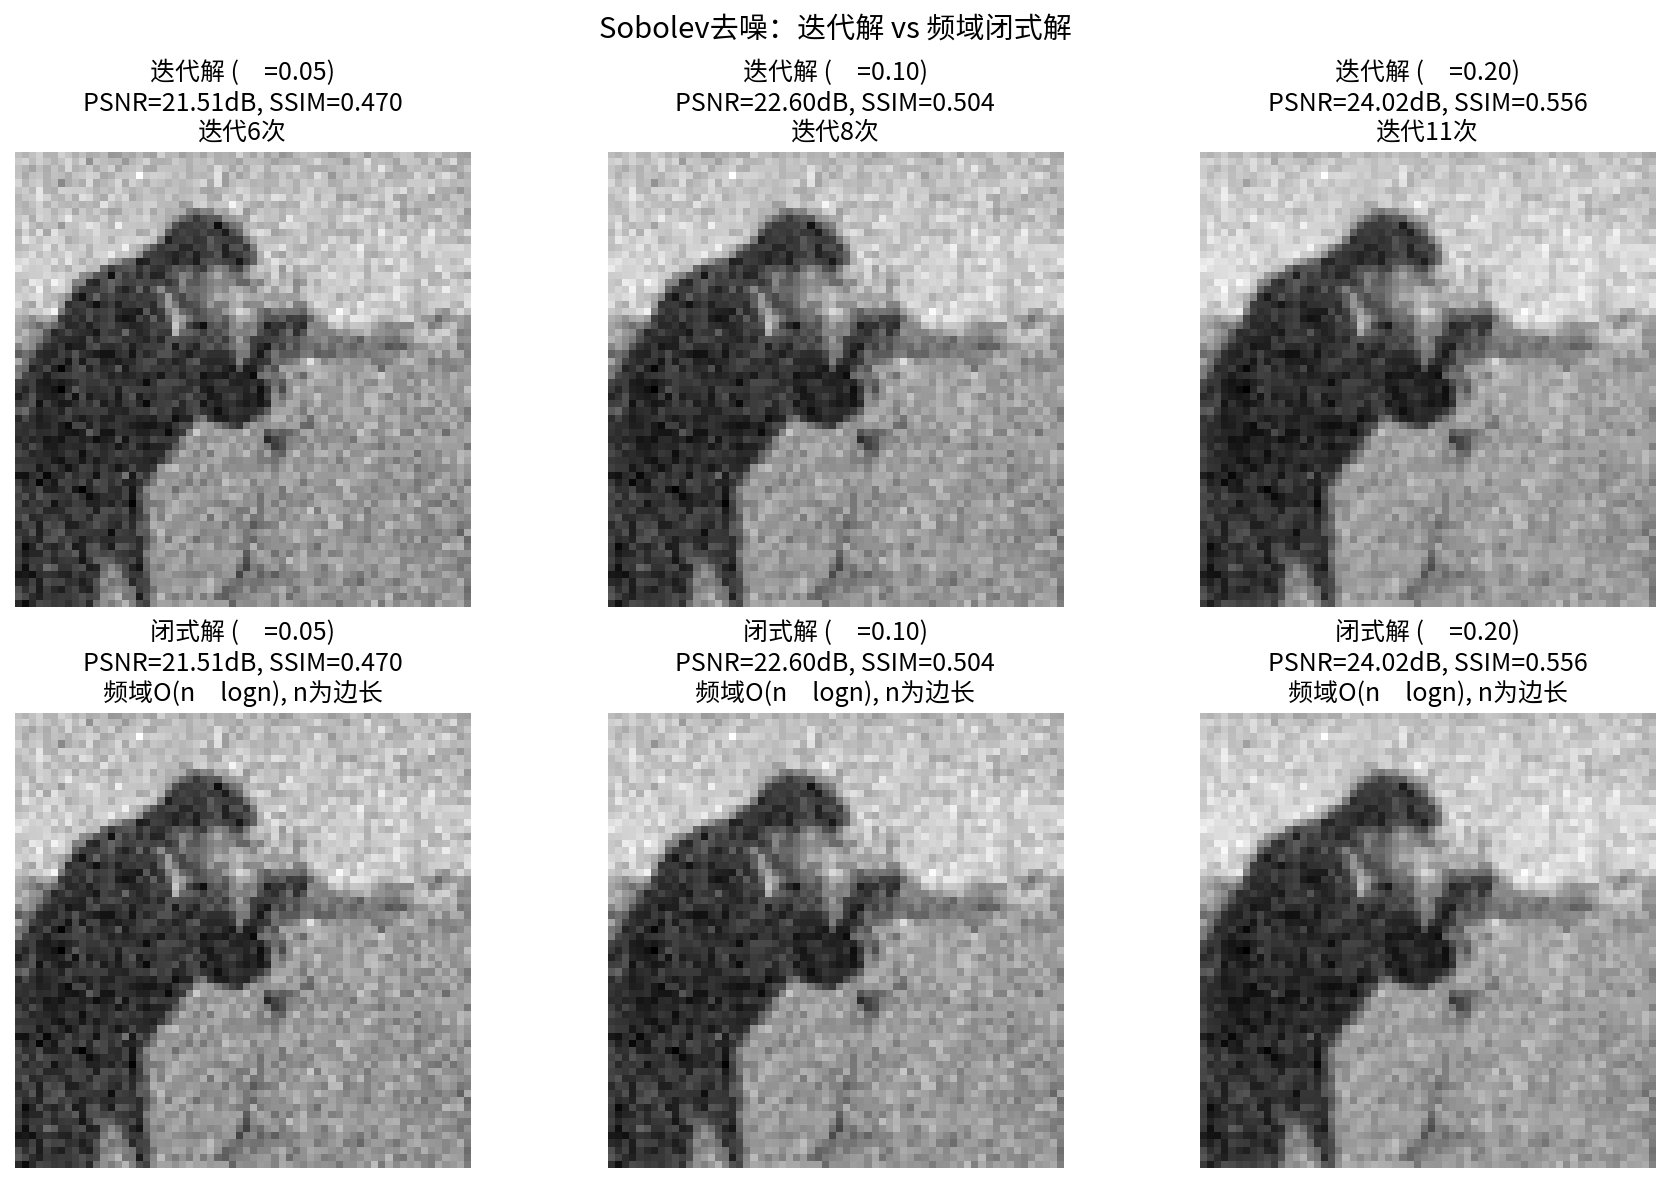
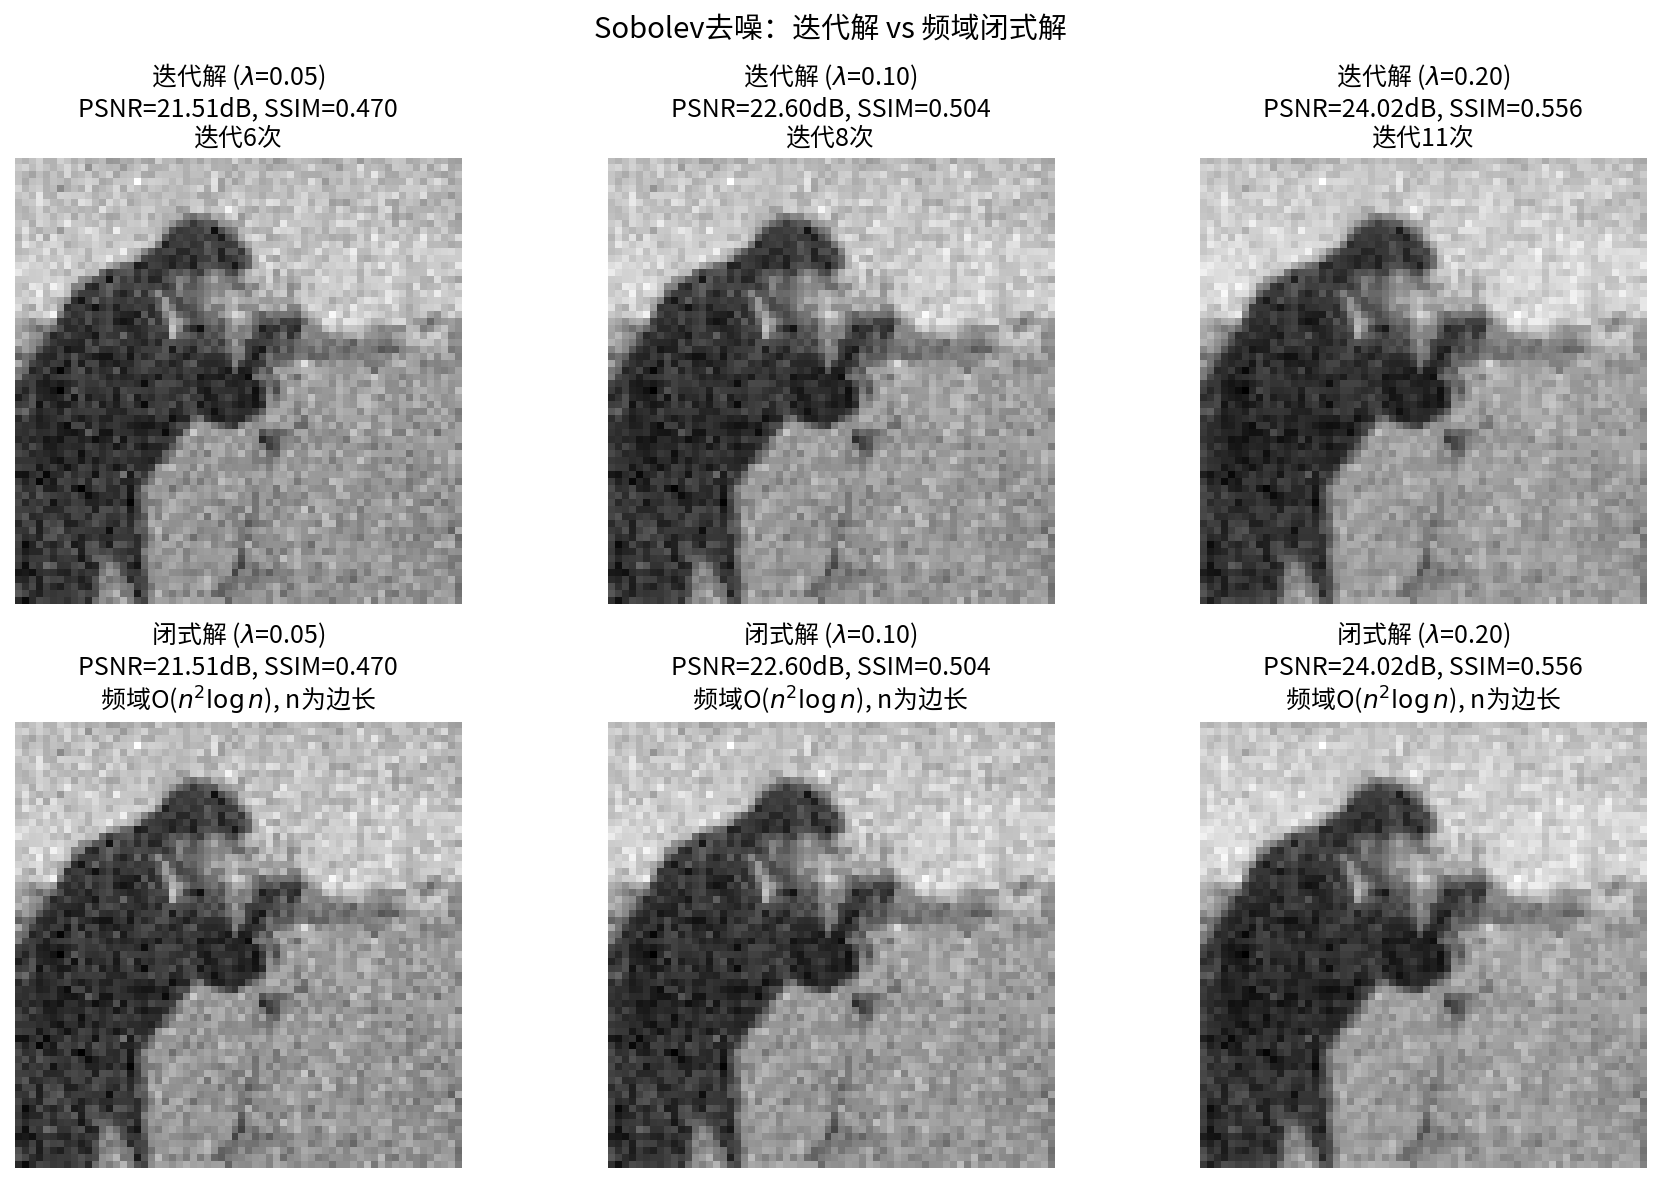
new

diff --git a/第2章 先验：贝叶斯推断的灵魂/配套实验/实验2.2-1/2.2-1.py b/第2章 先验：贝叶斯推断的灵魂/配套实验/实验2.2-1/2.2-1.py
@@ -409,11 +409,29 @@ var_methods = ['真实', 'Tikhonov\n(数据估计)'] + [f'Sobolev\nλ={lam}' for
 var_values = [local_var_true, local_var_tikh] + local_var_sob
 var_colors = plt.cm.tab10(np.linspace(0, 0.5, len(var_methods)))
 
+# 调整图表边距，防止标题与文字重叠
+plt.subplots_adjust(top=0.88)
+
 axes[1].bar(var_methods, var_values, color=var_colors[:len(var_methods)], alpha=0.7)
 axes[1].set_ylabel('局部方差')
 axes[1].set_title('局部方差保持度\n(中心10×10区域)')
+
+# 动态计算文字偏移量，避免超出边框
+var_max = max(var_values)
+var_min = min(var_values)
+var_range = var_max - var_min
+offset = var_range * 0.02 if var_range > 0 else var_max * 0.02
+
 for i, v in enumerate(var_values):
-    axes[1].text(i, v + 0.001, f'{v:.4f}', ha='center', fontsize=8)
+    # 根据数值大小动态调整文字位置
+    text_y = v + offset
+    # 如果文字可能超出标题区域，将文字移到柱内
+    if text_y > var_max * 0.95:
+        text_y = v - offset
+        va = 'top'
+    else:
+        va = 'bottom'
+    axes[1].text(i, text_y, f'{v:.4f}', ha='center', va=va, fontsize=8)
 axes[1].grid(True, alpha=0.3, axis='y')
 
 plt.tight_layout()
@@ -428,12 +446,14 @@ fig, axes = plt.subplots(n_rows, n_cols, figsize=(4*n_cols, 4*n_rows), squeeze=F
 for i, lam_sob in enumerate(SOB_LAMBDAS):
     # 上排：迭代解
     axes[0, i].imshow(x_sob_results[i], cmap='gray')
-    axes[0, i].set_title(f'迭代解 (λ={lam_sob:.2f})\n{fmt_metrics(psnr_sob[i], ssim_sob[i])}\n迭代{converged_iters[i]}次')
+    title1 = '迭代解 ($\\lambda$={:.2f})\n{}\n迭代{}次'.format(lam_sob, fmt_metrics(psnr_sob[i], ssim_sob[i]), converged_iters[i])
+    axes[0, i].set_title(title1)
     axes[0, i].axis('off')
     
     # 下排：闭式解
     axes[1, i].imshow(x_sob_exact_results[i], cmap='gray')
-    axes[1, i].set_title(f'闭式解 (λ={lam_sob:.2f})\n{fmt_metrics(psnr_sob_exact[i], ssim_sob_exact[i])}\n频域O(n²logn), n为边长')
+    title2 = '闭式解 ($\\lambda$={:.2f})\n{}\n频域O($n^2\\log n$), n为边长'.format(lam_sob, fmt_metrics(psnr_sob_exact[i], ssim_sob_exact[i]))
+    axes[1, i].set_title(title2)
     axes[1, i].axis('off')
 
 plt.suptitle('Sobolev去噪：迭代解 vs 频域闭式解', fontsize=14)
